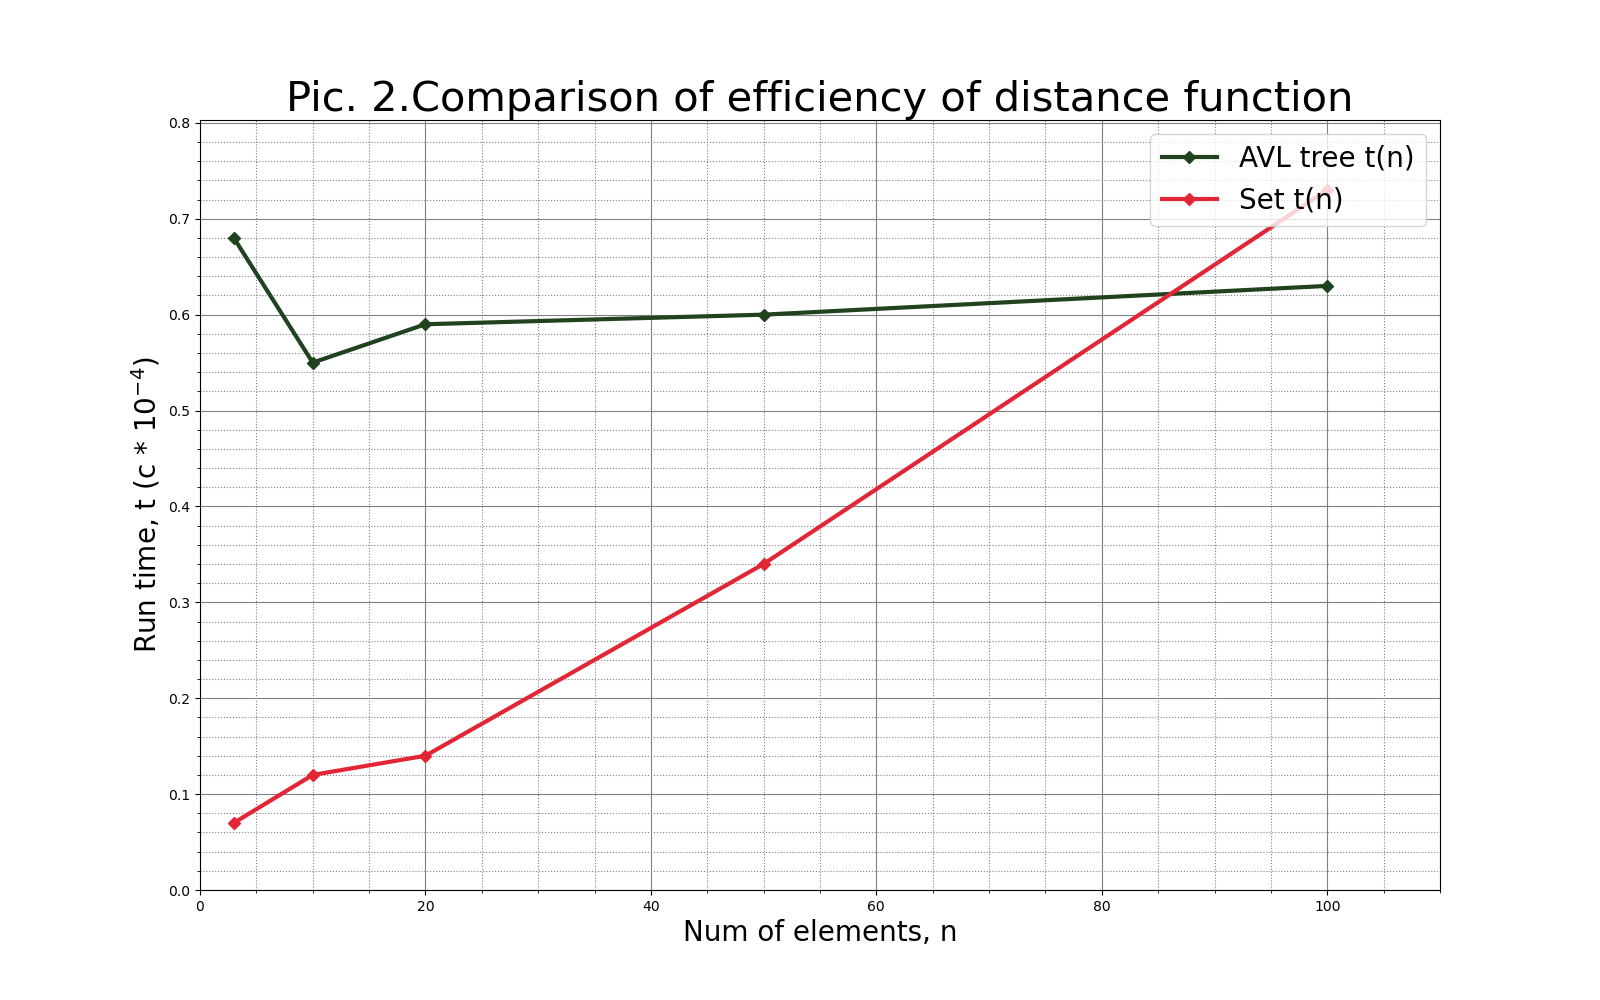
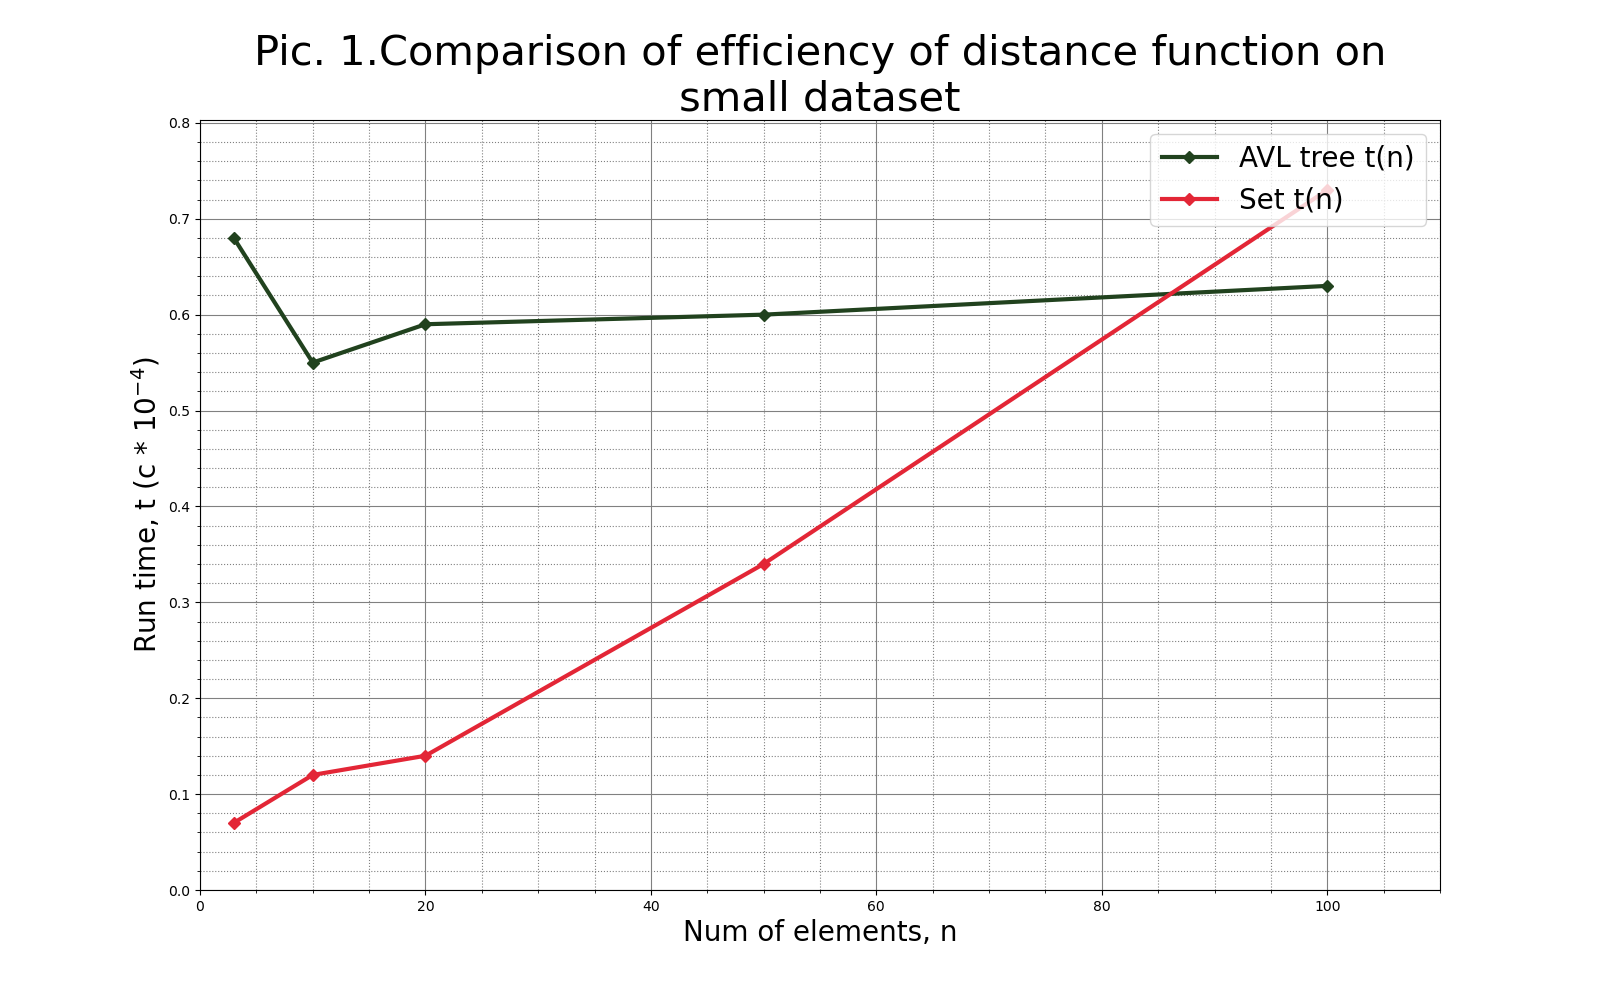
changed pic

Changed region(s): [[0.1875, 0.031, 0.875, 0.124], [0.1562, 0.031, 0.1875, 0.062]]

diff --git a/efficiency_comp/graph.py b/efficiency_comp/graph.py
@@ -34,7 +34,7 @@ ax.set_xlabel ("Num of elements, n",    size = 20)
 
 #--------------------------------------SET_BUILDING_AREA_SET----------------------------------------------------------
 
-ax.set_title ("\n".join(wrap('Pic. 2.Comparison of efficiency of distance function', 60)), loc = 'center', size = 30)
+ax.set_title ("\n".join(wrap('Pic. 1.Comparison of efficiency of distance function on small dataset', 60)), loc = 'center', size = 30)
 
 ax.grid(which = 'major', color = 'gray')
 ax.grid(which = 'minor', color = 'gray', linestyle = ':')
